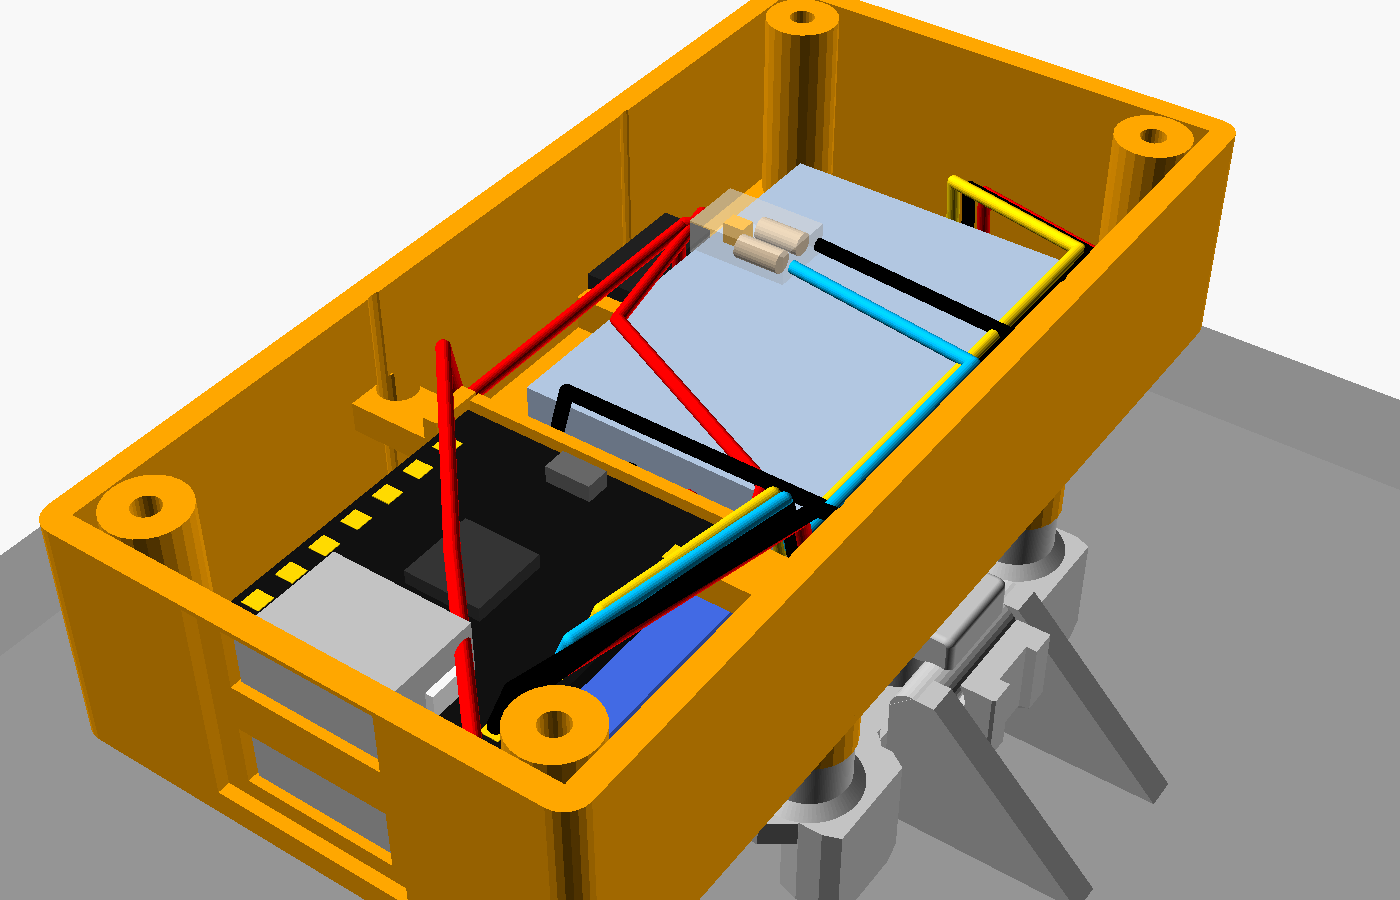
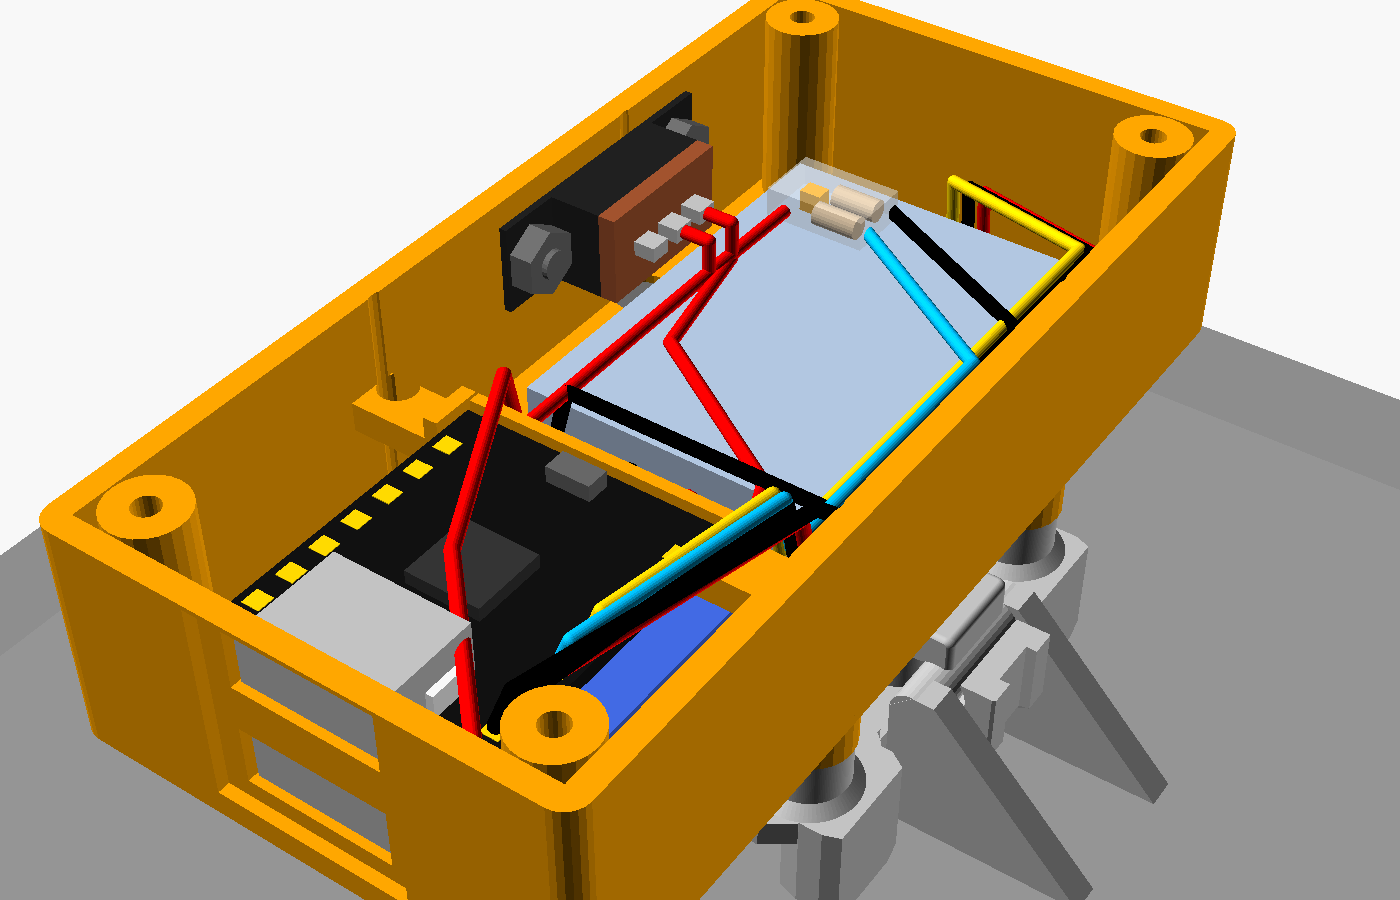
Scatola: supporto per l'interruttore SS12F15 con flangia
Nuovo parametro switch_type (SS12F15 default, SS12D00). L'SS12F15
si avvita da fuori alla parete +X con 2 viti M2 e dadi, appena sopra la
LiPo: feritoia per la leva, fori, intaglio nel bordo del coperchio.
Misure dal disegno del venditore; corsa della leva e passo dei fori
(15 mm) stimati, da misurare. Verificato a CAD: pezzi unici, nessuna
collisione con scatola, coperchio, LiPo, SuperMini, TP4056 e base
LaunchLab. Viste e render aggiornati; BOM con viti e dadi in piu'.

Changed region(s): [[0.3071, 0.0933, 0.7371, 0.6222], [0.3993, 0.4044, 0.43, 0.4356]]

diff --git a/hardware/render/scene.py b/hardware/render/scene.py
@@ -167,6 +167,7 @@ if OPT == "A":
         "Mesh_3": M["pcb_red"], "Mesh_4": M["black"], "Mesh_5": M["black"], "Mesh_6": M["black"],
         "Mesh_7": M["black"], "Mesh_9": M["screw"], "Mesh_10": M["screw"]})
     stl("a_box.stl", M["pla"]); stl("a_lid.stl", M["pla"]); stl("a_screws.stl", M["screw"])
+    stl("a_switch.stl", M["black"])  # interruttore: leva e viti si vedono dal fianco
     for k, w in enumerate(["w_red", "w_black", "w_yellow"]): stl("a_wire%d.stl" % k, M[w])
     target = Vector((0, -2, 2)) * MM
 else:

diff --git a/hardware/render/render.py b/hardware/render/render.py
@@ -28,6 +28,7 @@ PARTS = {
     "a_box": "box();",
     "a_lid": "lid();",
     "a_screws": "base_screws(); lid_screws();",
+    "a_switch": "switch_ss12();",
 }
 # tratto esterno dei 3 fili del sensore: dalla spina su per l'apertura del fondo
 WIRE = ("x0 = -1.2 + 1.2 * {k}; xl = -12.6 + 0.9 * {k}; zl = z_floor + 0.5 + lipo_h + 0.7;"

diff --git a/hardware/BOM.md b/hardware/BOM.md
@@ -14,7 +14,7 @@ Lista ufficiale dei componenti, quella da cui partire per ordinare. La guida la 
 | 2 | Sensore QRE1113 **analogico** su breakout | 1 | 3 pin **VCC / OUT / GND**, 2 resistenze, **nessun condensatore**. La versione "digitale" ha un condensatore di scarica e **non va bene**. Formato della SparkFun ROB-09453: la sede della base LaunchLab è fatta su quella, quindi misura il clone quando arriva (vedi sotto). | [AliExpress](https://it.aliexpress.com/item/1005012222539797.html) | 7,49 € (7,09 € da 2 pezzi) |
 | 3 | Batteria LiPo 1S | 1 | Formato **502030** (5 × 20 × 30 mm, circa 250 mAh), con cavetti. La scatola è dimensionata su questo; altre misure si impostano con i parametri `lipo_*` in `enclosure/spinlite_top.scad`. | da scegliere | 2-4 € |
 | 4 | Modulo di ricarica TP4056 **con protezione**, formato **28 × 17 mm** | 1 | Modello classico USB-C: TP4056 + DW01 + doppio MOSFET, piazzole B+/B−/OUT+/OUT− sul lato opposto alla USB-C. **La scatola è dimensionata su questo** (`tp_l = 28`, `tp_w = 17.2`). Va bene anche il [modulo compatto](https://it.aliexpress.com/item/1005012104722935.html) (2,35 € per 3), ma è più corto: misuralo e reimposta `tp_l`/`tp_w`. Caricare **solo a 5 V** (il TP4056 regge al massimo ~8 V). | da scegliere | 0,5-1 € |
-| 5 | Interruttore a slitta SS12D00 | 1 | Corpo circa 8,7 × 3,7 × 3,6 mm, con una culla su misura nella scatola. Scegli la **leva da 4 mm**, perché con 3 mm sporge solo ~1,4 mm dalla parete. Al montaggio **accorcia piedini e alette a ~1,5 mm**: lunghi toccano la LiPo. | [AliExpress](https://it.aliexpress.com/item/1005005633418066.html) | 1,79 € per 20 |
+| 5 | Interruttore a slitta **SS12F15** (leva da 4 mm) | 1 | Flangia da 19,5 mm con due fori, corpo 10,5 × 6,1 × 5,3 mm: si avvita da fuori alla parete con 2 viti M2 e dadi, sopra la LiPo. Accorcia i piedini a ~1,5 mm. In alternativa l'SS12D00, più piccolo ([link](https://it.aliexpress.com/item/1005005633418066.html), 1,79 € per 20), con `switch_type = "SS12D00"`: va in una culla sul fondo. | da scegliere | ~0,2 € |
 | 6 | Resistenza 100 kΩ | 2 | Partitore per leggere la tensione della batteria. | da scegliere | 0,05 € |
 | 7 | Condensatore ceramico 100 nF ("104") | 1 | Sul punto centrale del partitore, verso GND. A disco, reofori lunghi: si salda in linea. | [AliExpress](https://it.aliexpress.com/item/1005008483990919.html) (variante 100nF 104) | 1,79 € per 50 |
 | 8 | Header maschio a 90° da 3 pin + cavetto Dupont femmina a 3 fili | 1 | Collegamento al sensore. LaunchLab usa connettori Dupont a 90° sul QRE. | da scegliere | 0,5 € |
@@ -27,7 +27,8 @@ Lista ufficiale dei componenti, quella da cui partire per ordinare. La guida la 
 | 10 | Base sensore QRE1113 **LaunchLab v102** (stampata) | 1 | Clip che si agganciano alla porta del Battle Pass sul launcher, più la sede del sensore. Licenza **CC BY-SA**: non è nel repo, si scarica da LaunchLab. Istruzioni in [README.md](README.md#base-sensore-launchlab). | [3MF](https://github.com/shadohead/launchlab/raw/87bb60d619c2127c9efd679d7505a144e52a30d8/site/public/hardware/downloads/compact-base-v102.3mf) · [ZIP con STL/STEP](https://github.com/shadohead/launchlab/raw/87bb60d619c2127c9efd679d7505a144e52a30d8/site/public/hardware/downloads/compact-base-v102.zip) | ~10 g di filamento |
 | 11 | Scatola SpinLite + coperchio (stampati) | 1 | `enclosure/spinlite_top.scad`, si avvita sopra la base e contiene l'elettronica. Vedi [README.md](README.md#scatola-spinlite). | questo repo | ~12 g di filamento |
 | 12 | Vite M2×4 a testa cilindrica (pan head) | 2 | Barretta che preme il QRE nella base. | da scegliere | – |
-| 13 | Vite M2×6 a testa cilindrica | 8 | 4 fissano la scatola ai fori della base (rettangolo 29 × 24 mm), 4 chiudono il coperchio. | da scegliere | – |
+| 13 | Vite M2×6 a testa cilindrica | 10 | 4 fissano la scatola ai fori della base (rettangolo 29 × 24 mm), 4 chiudono il coperchio, 2 tengono l'interruttore SS12F15. | da scegliere | – |
+| 13b | Dado M2 | 2 | Dentro la scatola, sulle viti dell'interruttore SS12F15. | da scegliere | – |
 | 14 | Filamento **PETG** | ~25 g | Consigliato da LaunchLab per clip e parti avvitate. Il PLA va bene per le prove. | da scegliere | ~0,5 € |
 
 Viti: un kit assortito M2 (circa 3-5 €) basta per molti dispositivi. Il costo per pezzo è trascurabile.

diff --git a/hardware/README.md b/hardware/README.md
@@ -116,7 +116,7 @@ File: **`enclosure/spinlite_top.scad`** (OpenSCAD, MIT). Si avvita sopra la base
 2. Avvita la **scatola vuota** alla base con **4 viti M2×6**. Le teste stanno nelle sedi del fondo e il cacciavite scende dritto lungo i canali.
 3. **TP4056**: appoggialo sul fondo davanti alla traversa e fallo scorrere verso le pareti USB-C, sotto la traversa, finché la USB-C entra nel suo foro.
 4. **LiPo** nel vano tra le guide, su un velo di gommapiuma o biadesivo.
-5. Fai salire i fili del sensore dall'apertura nel fondo. Metti l'interruttore nella culla, con la leva nella feritoia.
+5. Fai salire i fili del sensore dall'apertura nel fondo. **Interruttore SS12F15:** leva nella feritoia del fianco, flangia contro la parete interna, 2 viti M2×6 da fuori con il dado dentro (piedini accorciati a ~1,5 mm). Con l'SS12D00 (`switch_type = "SS12D00"`) va invece nella culla sul fondo.
 6. Salda i collegamenti (vedi la guida). Lascia i fili abbastanza lunghi da poter alzare la SuperMini.
 7. **SuperMini**: inserisci prima la USB-C nel foro superiore, poi abbassa la coda sulla traversa, dentro la battuta.
 8. Chiudi il coperchio con **4 viti M2×6**. Una nervatura preme sulla USB-C e un limitatore resta sopra la coda.
@@ -129,7 +129,9 @@ Il pulsante BOOT, che cambia pagina sull'OLED, si preme dal foro nel coperchio c
 | --- | --- |
 | `sm_*`, `tp_*` | misure di SuperMini e TP4056, sporgenza della USB-C oltre il PCB (`*_usb_out`) |
 | `lipo_l/w/h` | misure della LiPo (default 502030). Se è troppo lunga, un `assert` lo segnala |
-| `sw_*` | interruttore SS12D00: corpo, feritoia, posizione |
+| `switch_type` | `"SS12F15"` (default: flangia avvitata al fianco, sopra la LiPo) o `"SS12D00"` (culla sul fondo) |
+| `sf_*` | SS12F15: flangia, corpo, leva, corsa e **passo dei fori (stimato 15 mm: misuralo)** |
+| `sw_*` | SS12D00: corpo, feritoia, posizione |
 | `sm_boot` | posizione del pulsante BOOT, per il foro nel coperchio |
 | `oled` | `true` aggiunge 4 mm di altezza, la finestra nel coperchio e la cornice per il modulo |
 | `fit`, `clearance` | giochi di schede e coperchio |
